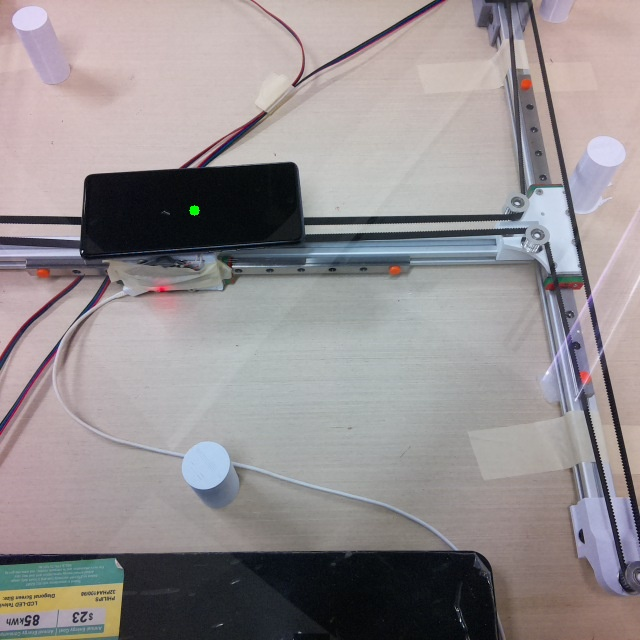
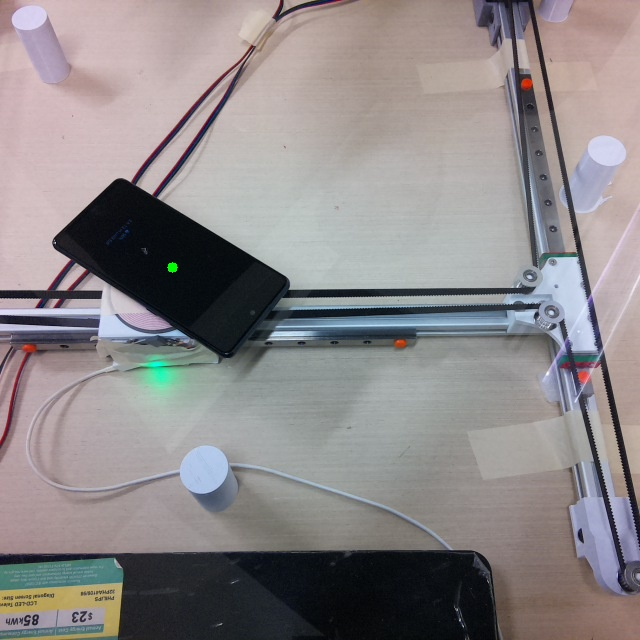
t

diff --git a/remap.py b/remap.py
@@ -6,10 +6,10 @@ def remap_coor(x,y):
     # Define the four corners in the image
     # from the image perspective
     image_points = np.array([
-        [348., 113.], # top right (origin)
-        [356., 297.], # bottom right
-        [109., 300.], # bottom left
-        [135., 112.], # top left
+        [331., 100.], # top right (origin)
+        [341., 288.], # bottom right
+        [ 91., 292.], # bottom left
+        [116., 100.], # top left
     ], dtype=np.float32)
 
     # Define the real-world coordinates of the four corners
